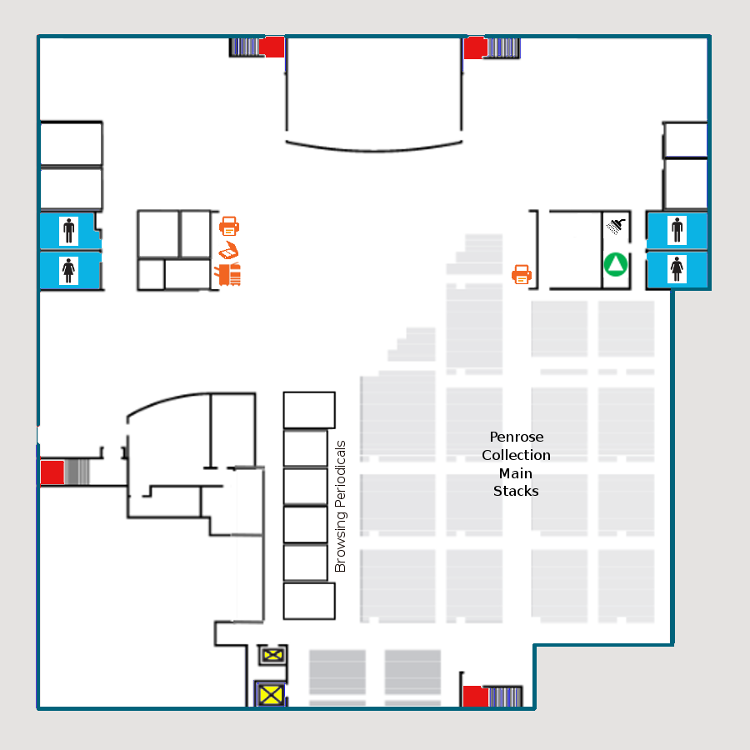
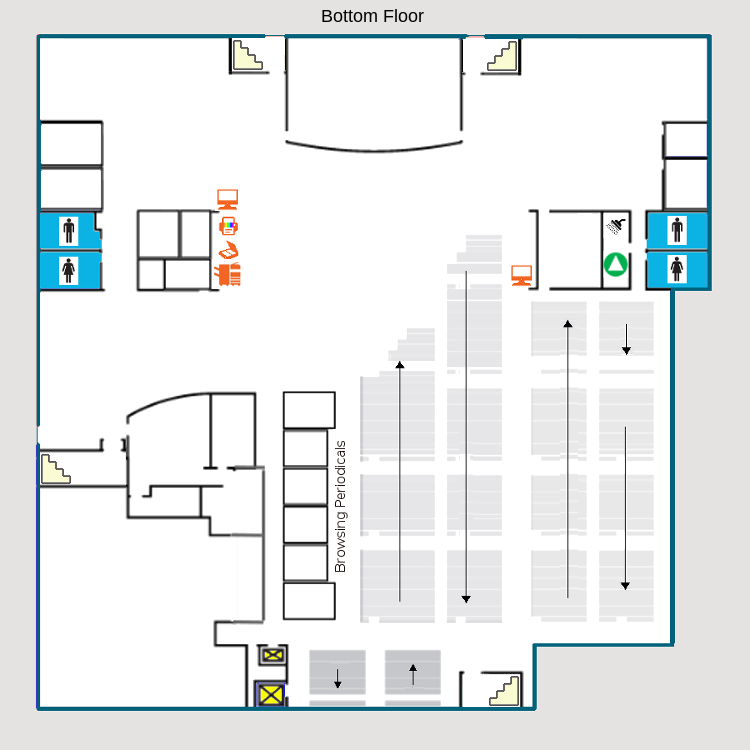
Update base floor map images with new color printer locations

diff --git a/index.html b/index.html
@@ -43,7 +43,7 @@
 		<script type = "text/javascript" src = "https://d3js.org/d3.v3.min.js"></script>
 		<script src="https://stackpath.bootstrapcdn.com/bootstrap/4.3.1/js/bootstrap.min.js" integrity="sha384-JjSmVgyd0p3pXB1rRibZUAYoIIy6OrQ6VrjIEaFf/nJGzIxFDsf4x0xIM+B07jRM" crossorigin="anonymous"></script>
 		<script src="https://code.jquery.com/jquery-3.4.0.min.js" integrity="sha256-BJeo0qm959uMBGb65z40ejJYGSgR7REI4+CW1fNKwOg=" crossorigin="anonymous"></script>
-		<script src="./config/config.js"></script>
+		<script src="./config/config.js?v=2.0"></script>
 		<script src="dulibmap.js"></script>
 		<!-- <script src="./assets/js/events.js"></script> -->
 	</footer>

diff --git a/config/config.js b/config/config.js
@@ -5,9 +5,9 @@ var config = {
 	"legend_image": "Legend-V.png",
 
 	"map_base": {
-		"top-floor": "top_base_tech_750_nolabels_newstairs.png",
-		"main-floor": "main_base_750_nolabels_newstairs.png",
-		"bottom-floor": "bottom_base_750_nolabels_arrows_newstairs.png"
+		"top-floor": "top_base_750.png",
+		"main-floor": "main_base_750.png",
+		"bottom-floor": "bottom_base_750.png"
 	},
 
 	"map_height": "750",
